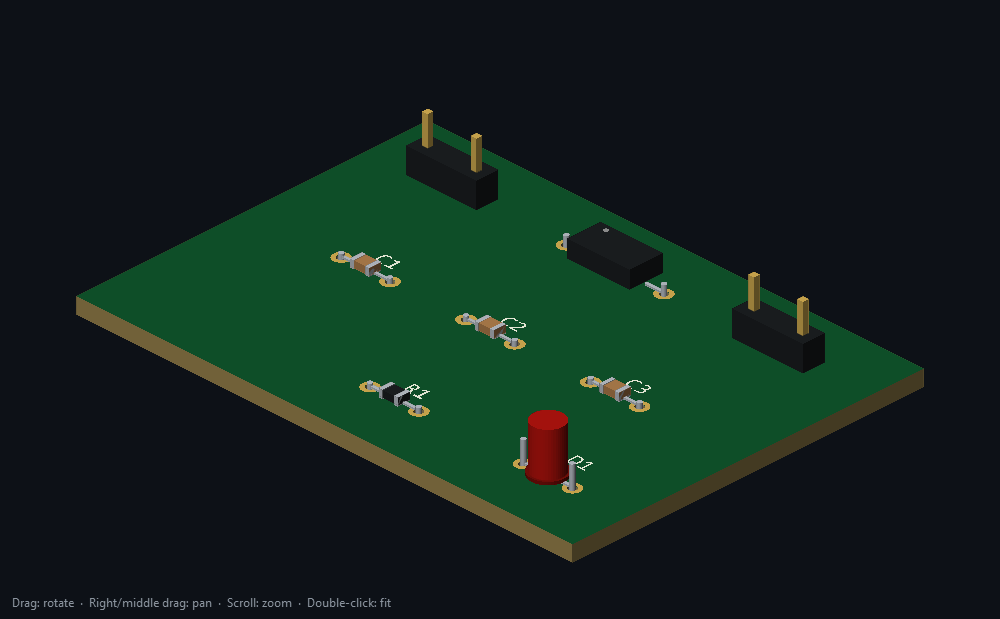
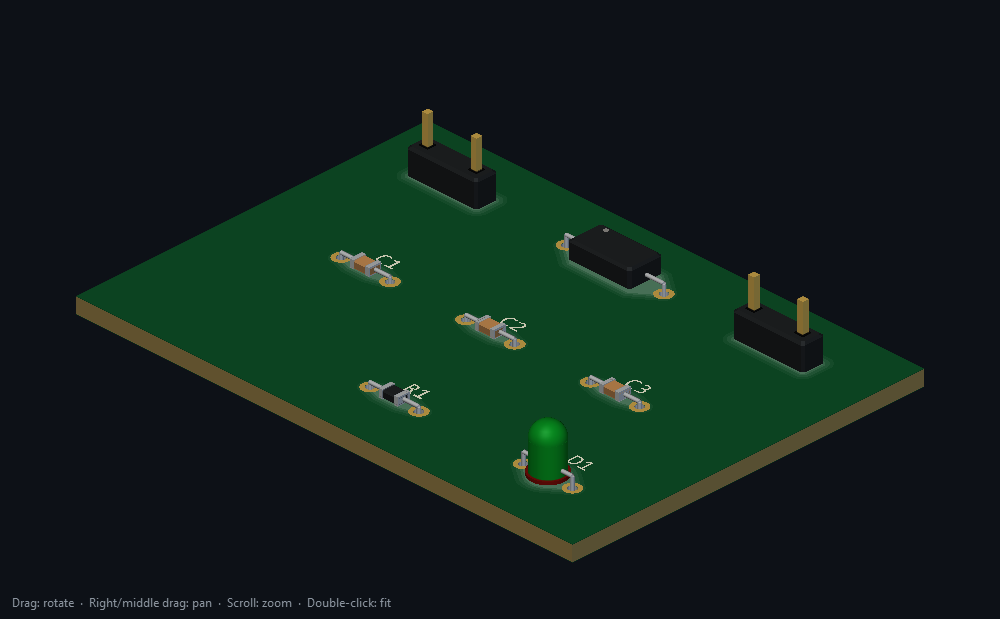
docs: refresh screenshots for detailed PCB rendering

diff --git a/README.md b/README.md
@@ -105,6 +105,12 @@ orthographic top, bottom and isometric inspection views.
   retain their footprint origin, convert 0.1-inch units to millimetres, and apply
   component rotation and back-side placement. Ambiguous connector models use a
   built-in approximation.
+- Built-in models include bevelled package shoulders, domed LED lenses, smooth
+  cylindrical surfaces, curved metal leads, axial resistor value bands and
+  electrolytic-capacitor vent/polarity details. Metal, plastic, lenses and solder
+  mask use distinct specular responses under key/fill lights. Subtle contact
+  shading grounds components on the board; it is an approximate visual effect,
+  not ray-traced shadowing or extra copper geometry.
 - **Visibility** controls components, traces, reference markings, KiCad models
   and unrouted connection guides. Guides are off by default and appear as straight
   lines rather than physical jumper wires.
